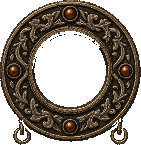
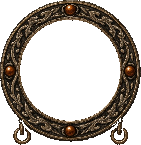
HUD art: thinner medallion, per-class Warlord/Philosopher rings, clean empty EXP track

diff --git a/images/dark-fantasy/chronicle-hud-frames-v1/build.py b/images/dark-fantasy/chronicle-hud-frames-v1/build.py
@@ -48,18 +48,91 @@ def lintel():
 
 pieces = lintel()
 pieces.update({
-    'medallion': piece((36, 636, 332, 944)),
     'pendant': piece((352, 690, 550, 832)),
     'stat-plaque': piece((568, 700, 708, 828)),
     'exp-groove-full': piece((732, 704, 988, 762)),
     'tab': piece((768, 782, 944, 958)),
 })
+# Empty groove: repaint the whole inner track (not just amber-looking pixels) so
+# no ember residue survives; a two-tone recess with a darker upper lip.
 empty = pieces['exp-groove-full'].copy(); px = empty.load()
-for y in range(empty.height):
-    for x in range(empty.width):
-        rr, gg, bb, aa = px[x, y]
-        if aa and rr > 85 and rr - bb > 45: px[x, y] = (34, 29, 24, 255)
+for y in range(7, 16):
+    for x in range(7, 116):
+        if px[x, y][3]: px[x, y] = (16, 12, 9, 255) if y < 9 else (30, 24, 19, 255) if (x + y) % 7 else (36, 29, 23, 255)
 pieces['exp-groove-empty'] = empty
+
+
+def thin_medallion():
+    """Radially compress the carved band so the ring is visibly thinner.
+
+    Source pixels (2x stored) at radius 76..139 are resampled into 100..139, the
+    loops and outer lip beyond 139 are untouched, and the four amber studs are
+    pasted back unsquashed at the new band centre. Nearest sampling only.
+    """
+    region = sheet.crop((36, 636, 332, 944)); bounds = region.getchannel('A').getbbox()
+    region = region.crop(bounds)
+    cx, cy = 140.5, 141.5          # ring centre in the cropped source
+    R_IN, R_OUT, NEW_IN = 76.0, 139.0, 100.0
+    src = region.load(); out = Image.new('RGBA', region.size); dst = out.load()
+    for y in range(region.height):
+        for x in range(region.width):
+            dx, dy = x - cx, y - cy; r = (dx * dx + dy * dy) ** .5
+            if r >= R_OUT: dst[x, y] = src[x, y]; continue
+            if r < NEW_IN or r == 0: continue
+            sr = R_IN + (r - NEW_IN) * (R_OUT - R_IN) / (R_OUT - NEW_IN)
+            sx, sy = round(cx + dx / r * sr), round(cy + dy / r * sr)
+            if 0 <= sx < region.width and 0 <= sy < region.height: dst[x, y] = src[sx, sy]
+    for ux, uy in ((0, -1), (1, 0), (0, 1), (-1, 0)):
+        stud = region.crop((round(cx + ux * 112 - 14), round(cy + uy * 112 - 14), round(cx + ux * 112 + 14), round(cy + uy * 112 + 14)))
+        disc = Image.new('L', stud.size, 0); ImageDraw.Draw(disc).ellipse((1, 1, 26, 26), fill=255)
+        out.paste(stud, (round(cx + ux * 120 - 14), round(cy + uy * 120 - 14)), disc)
+    return out.resize((out.width // REDUCE, out.height // REDUCE), Image.Resampling.NEAREST)
+
+
+def recolor_studs(image, hue):
+    """Re-gem only the four stud discs (warm pixels inside each disc)."""
+    import colorsys
+    out = image.copy(); px = out.load()
+    for ux, uy in ((0, -1), (1, 0), (0, 1), (-1, 0)):
+        sx, sy = 70.25 + ux * 60, 70.75 + uy * 60
+        for y in range(int(sy - 8), int(sy + 9)):
+            for x in range(int(sx - 8), int(sx + 9)):
+                if (x - sx) ** 2 + (y - sy) ** 2 > 42: continue
+                r, g, b, a = px[x, y]
+                if not a or r < b + 25: continue
+                h, l, s_ = colorsys.rgb_to_hls(r / 255, g / 255, b / 255)
+                nr, ng, nb = colorsys.hls_to_rgb(hue, l, min(1, s_ * 1.1))
+                px[x, y] = (round(nr * 255), round(ng * 255), round(nb * 255), a)
+    return out
+
+
+def jagged_rim(image, teeth=16):
+    """Warlord: iron teeth biting into the aperture (drawn crisply at stored size)."""
+    import math
+    out = image.copy(); d = ImageDraw.Draw(out)
+    cx, cy, r = 70.25, 70.75, 50.5
+    for i in range(teeth):
+        a = i * 2 * math.pi / teeth + math.pi / teeth
+        half = math.pi / teeth * .55
+        base1 = (cx + math.cos(a - half) * (r + 1), cy + math.sin(a - half) * (r + 1))
+        base2 = (cx + math.cos(a + half) * (r + 1), cy + math.sin(a + half) * (r + 1))
+        tip = (cx + math.cos(a) * (r - 6), cy + math.sin(a) * (r - 6))
+        d.polygon([base1, tip, base2], fill=(58, 44, 30, 255), outline=(150, 118, 76, 255))
+    return out
+
+
+def smooth_rim(image):
+    """Philosopher: a fine ivory inner bead line on the smooth bevel."""
+    out = image.copy(); d = ImageDraw.Draw(out)
+    cx, cy, r = 70.25, 70.75, 50.5
+    d.ellipse((cx - r, cy - r, cx + r, cy + r), outline=(214, 198, 160, 255), width=1)
+    return out
+
+
+thin = thin_medallion()
+pieces['medallion'] = thin
+pieces['medallion-warrior'] = jagged_rim(recolor_studs(thin, 0.995))
+pieces['medallion-scholar'] = smooth_rim(recolor_studs(thin, 0.60))
 
 for name, image in pieces.items(): image.save(HERE / f'{name}.png', optimize=True)
 
